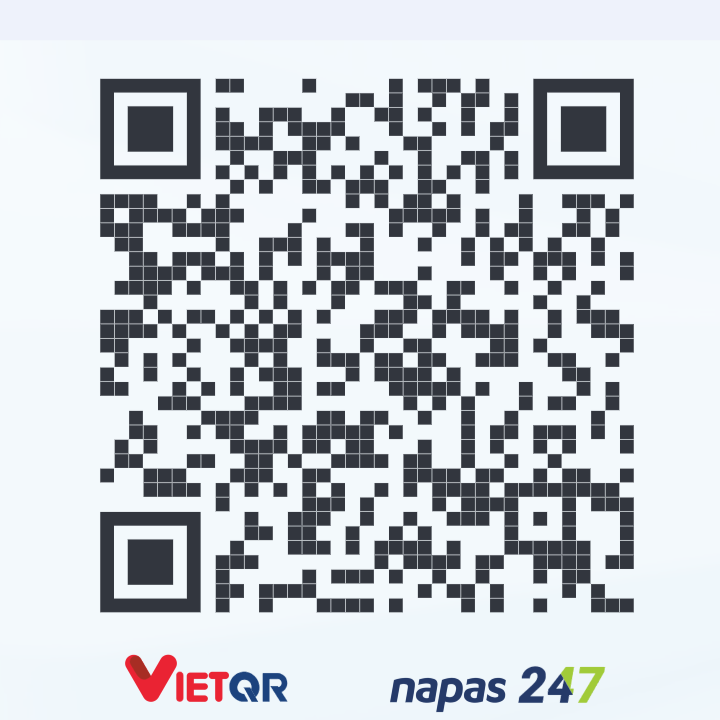
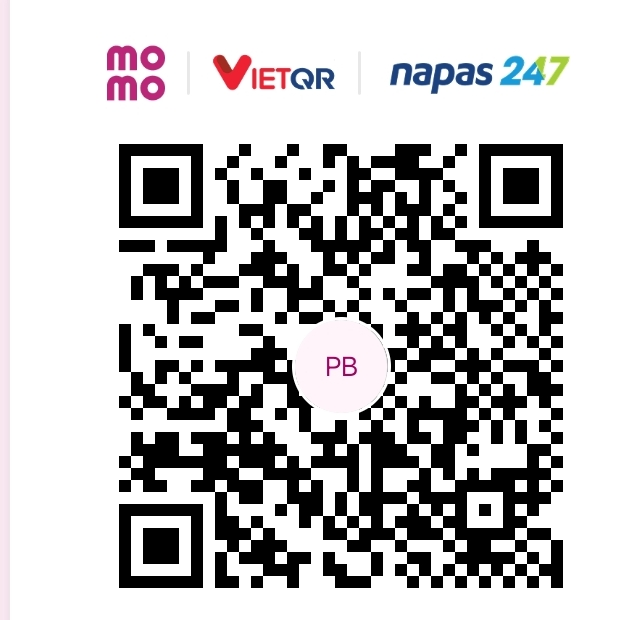
fix api donate

diff --git a/src/pages/Auth/AboutMe/index.jsx b/src/pages/Auth/AboutMe/index.jsx
@@ -1,26 +1,49 @@
-import React from "react";
+import React, { useEffect, useState } from "react";
+import axios from "axios";
+import { API_URL } from "../../../utils";
 
-// Enhanced DonateHistory component with real data
+
 const DonateHistory = () => {
-  const donations = [
-    {
-        "id": "7ae05d05-6f28-4e05-8fbd-df371e7f8a02",
-        "donorname": "Quang",
-        "amount": 100000,
-        "date": "2025-06-08T13:02:11",
-        "message": "Tự donate cho chính mình",
-        "created_at": "2025-06-08T13:02:11+00:00"
-    },
-    {
-        "id": "7ae05d05-6f28-4e05-8fbd-df371e7f8a03",
-        "donorname": "Ẩn danh",
-        "amount": 5000,
-        "date": "2025-08-08T18:29:21",
-        "message": "CTCP DICH VU DI DONG 96724496581--CHUYEN TIEN-OQCH00010S gg-MOMO96724496581MOMO. TU: M SERVICE JSC",
-        "created_at": "2025-06-08T13:02:11+00:00"
-    },
+  const [donations, setDonations] = useState([]);
+  const [loading, setLoading] = useState(true);
+  const [error, setError] = useState(null);
+  useEffect(() => {
+    const fetchDonations = async () => {
+      try {
+        setLoading(true);
+        const res = await axios.get(`${API_URL.DONATE_URL}`);
+        setDonations(res.data);
+        setError(null);
+      } catch (err) {
+        console.error("Lỗi khi fetch donations:", err);
+        setError("Không thể tải dữ liệu donate. Vui lòng thử lại sau.");
+      } finally {
+        setLoading(false);
+      }
+    };
 
-  ];
+    fetchDonations();
+  }, []);
+  
+  // const donations = [
+    // {
+    //     "id": "7ae05d05-6f28-4e05-8fbd-df371e7f8a02",
+    //     "donorname": "Quang",
+    //     "amount": 100000,
+    //     "date": "2025-06-08T13:02:11",
+    //     "message": "Tự donate cho chính mình",
+    //     "created_at": "2025-06-08T13:02:11+00:00"
+    // },
+    // {
+    //     "id": "7ae05d05-6f28-4e05-8fbd-df371e7f8a03",
+    //     "donorname": "Ẩn danh",
+    //     "amount": 5000,
+    //     "date": "2025-08-08T18:29:21",
+    //     "message": "CTCP DICH VU DI DONG 96724496581--CHUYEN TIEN-OQCH00010S gg-MOMO96724496581MOMO. TU: M SERVICE JSC",
+    //     "created_at": "2025-06-08T13:02:11+00:00"
+    // },
+
+  // ];
 
   const formatAmount = (amount) => {
     return new Intl.NumberFormat('vi-VN', {
@@ -49,8 +72,51 @@ const DonateHistory = () => {
         </h3>
         <div className="w-24 h-1 bg-gradient-to-r from-purple-400 to-pink-400 mx-auto rounded-full"></div>
       </div>
-
-      {donations.length > 0 ? (
+            {loading ? (
+        // Loading skeleton
+        <div className="space-y-4">
+          {[1, 2, 3].map((i) => (
+            <div key={i} className="bg-white/80 backdrop-blur-sm rounded-2xl p-6 shadow-lg border border-white/30 animate-pulse">
+              <div className="flex flex-col md:flex-row md:items-center justify-between gap-4">
+                <div className="flex-1">
+                  <div className="flex items-center gap-3 mb-2">
+                    <div className="w-10 h-10 bg-gray-300 rounded-full"></div>
+                    <div>
+                      <div className="h-4 bg-gray-300 rounded w-24 mb-2"></div>
+                      <div className="h-3 bg-gray-300 rounded w-32"></div>
+                    </div>
+                  </div>
+                  <div className="bg-gray-200 rounded-lg p-3 mt-3">
+                    <div className="h-3 bg-gray-300 rounded w-full mb-1"></div>
+                    <div className="h-3 bg-gray-300 rounded w-3/4"></div>
+                  </div>
+                </div>
+                <div className="text-right">
+                  <div className="bg-gray-200 rounded-xl p-3">
+                    <div className="h-6 bg-gray-300 rounded w-20 mb-1"></div>
+                    <div className="h-3 bg-gray-300 rounded w-16"></div>
+                  </div>
+                </div>
+              </div>
+            </div>
+          ))}
+        </div>
+      ) : error ? (
+        // Error state
+        <div className="text-center py-12">
+          <div className="w-24 h-24 bg-gradient-to-r from-red-200 to-red-300 rounded-full flex items-center justify-center mx-auto mb-4">
+            <span className="text-red-500 text-4xl">⚠</span>
+          </div>
+          <p className="text-red-500 text-lg font-semibold mb-2">Có lỗi xảy ra!</p>
+          <p className="text-gray-500 text-sm">{error}</p>
+          <button 
+            onClick={() => window.location.reload()} 
+            className="mt-4 px-6 py-2 bg-gradient-to-r from-purple-500 to-pink-500 text-white rounded-lg hover:from-purple-600 hover:to-pink-600 transition-all duration-300"
+          >
+            Thử lại
+          </button>
+        </div>
+      ) : donations.length > 0 ? (
         <div className="space-y-4">
           {donations.map((donation) => (
             <div 
@@ -106,6 +172,7 @@ const DonateHistory = () => {
           </div>
         </div>
       ) : (
+        // Empty state - không có dữ liệu
         <div className="text-center py-12">
           <div className="w-24 h-24 bg-gradient-to-r from-gray-200 to-gray-300 rounded-full flex items-center justify-center mx-auto mb-4">
             <span className="text-gray-400 text-4xl">🎁</span>
@@ -114,14 +181,15 @@ const DonateHistory = () => {
           <p className="text-gray-400 text-sm mt-2">Hãy là người đầu tiên ủng hộ nhé! 💖</p>
         </div>
       )}
+
     </div>
   );
 };
 
 const DonationInfo = () => {
   // Mock data để demo
-  const BankAccount = "0889075231";
-  const BankName = "MB Bank";
+  const BankAccount = "088907XXXX";
+  const BankName = "MB Bank, Momo";
   const BankAccountName = "Phạm Bá Quang";
 
   return {

diff --git a/src/pages/Public/Settings/index.jsx b/src/pages/Public/Settings/index.jsx
@@ -1,5 +1,5 @@
 import React, { useContext, useState, useEffect } from "react";
-import { Settings2, Server, Eye, EyeOff, RefreshCw, Download, Smartphone } from "lucide-react";
+import { Server, Eye, EyeOff, RefreshCw, Download, Smartphone } from "lucide-react";
 import axios from "axios";
 import { AuthContext } from "../../../context/AuthLocket";
 import { showSuccess, showInfo } from "../../../components/Toast";
